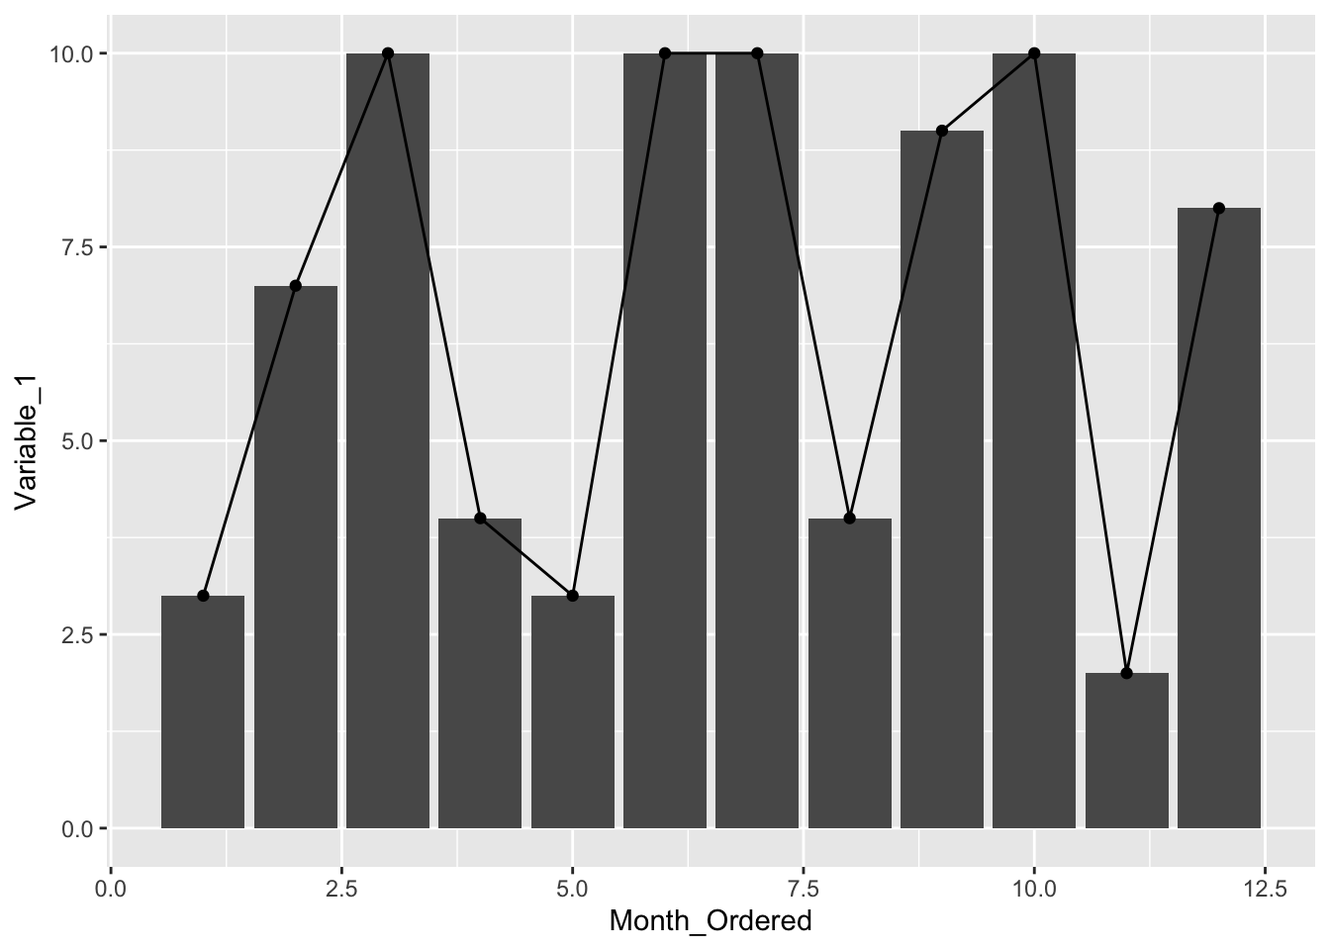
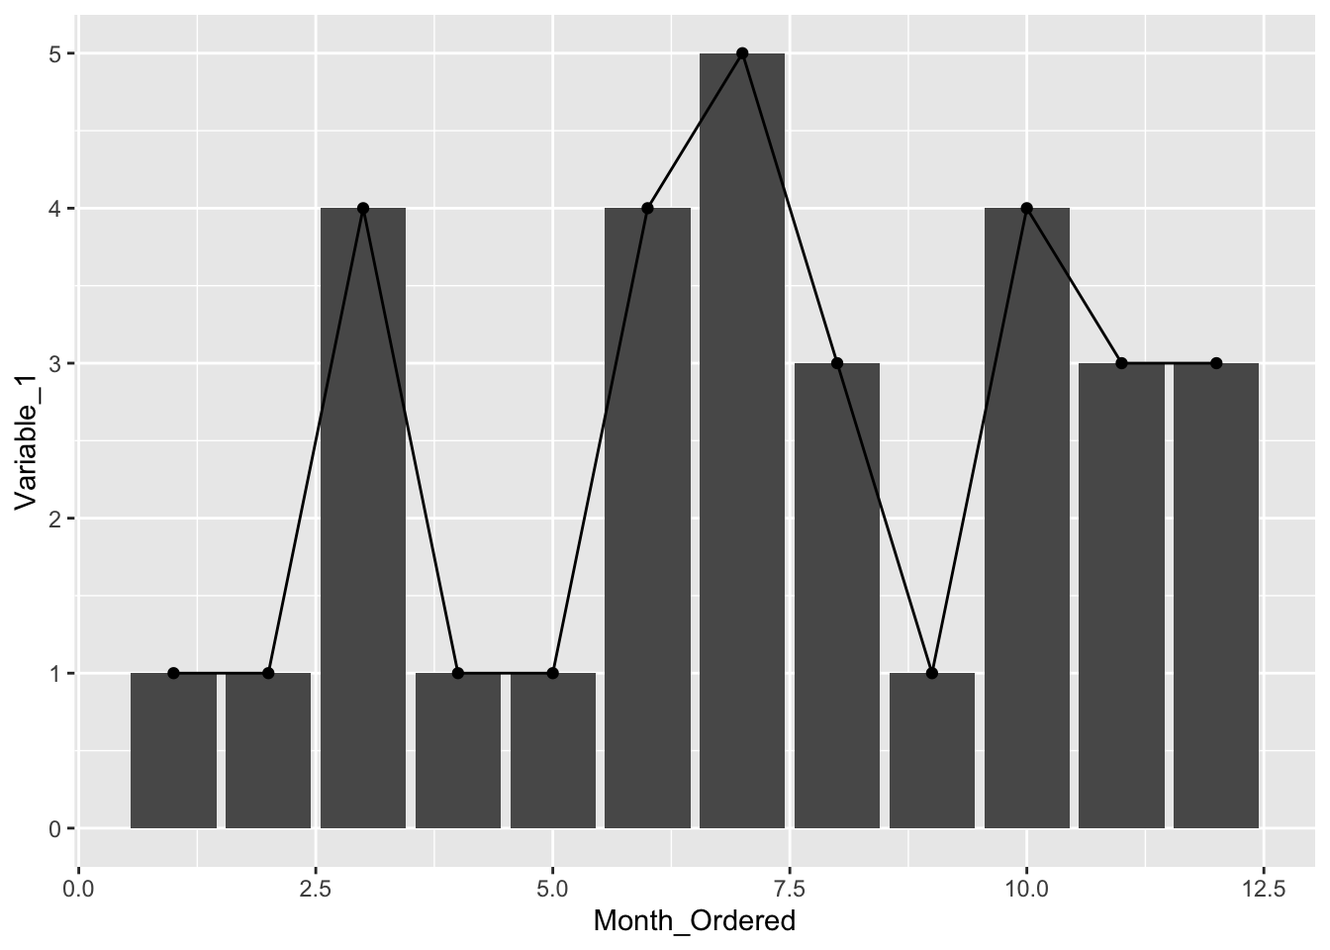
Update Analysis

diff --git a/docs/analysis.html b/docs/analysis.html
@@ -404,12 +404,14 @@ library(tidyverse)</code></pre>
               rownames = FALSE, 
               filter=&quot;top&quot;, 
               options = list(pageLength = 5, scrollX=T) )</code></pre>
-<div id="htmlwidget-411f9e79b64006c12b79" style="width:100%;height:auto;" class="datatables html-widget"></div>
-<script type="application/json" data-for="htmlwidget-411f9e79b64006c12b79">{"x":{"filter":"top","filterHTML":"<tr>\n  <td data-type=\"integer\" style=\"vertical-align: top;\">\n    <div class=\"form-group has-feedback\" style=\"margin-bottom: auto;\">\n      <input type=\"search\" placeholder=\"All\" class=\"form-control\" style=\"width: 100%;\"/>\n      <span class=\"glyphicon glyphicon-remove-circle form-control-feedback\"><\/span>\n    <\/div>\n    <div style=\"display: none; position: absolute; width: 200px;\">\n      <div data-min=\"1\" data-max=\"12\"><\/div>\n      <span style=\"float: left;\"><\/span>\n      <span style=\"float: right;\"><\/span>\n    <\/div>\n  <\/td>\n  <td data-type=\"character\" style=\"vertical-align: top;\">\n    <div class=\"form-group has-feedback\" style=\"margin-bottom: auto;\">\n      <input type=\"search\" placeholder=\"All\" class=\"form-control\" style=\"width: 100%;\"/>\n      <span class=\"glyphicon glyphicon-remove-circle form-control-feedback\"><\/span>\n    <\/div>\n  <\/td>\n  <td data-type=\"integer\" style=\"vertical-align: top;\">\n    <div class=\"form-group has-feedback\" style=\"margin-bottom: auto;\">\n      <input type=\"search\" placeholder=\"All\" class=\"form-control\" style=\"width: 100%;\"/>\n      <span class=\"glyphicon glyphicon-remove-circle form-control-feedback\"><\/span>\n    <\/div>\n    <div style=\"display: none; position: absolute; width: 200px;\">\n      <div data-min=\"1\" data-max=\"9\"><\/div>\n      <span style=\"float: left;\"><\/span>\n      <span style=\"float: right;\"><\/span>\n    <\/div>\n  <\/td>\n  <td data-type=\"integer\" style=\"vertical-align: top;\">\n    <div class=\"form-group has-feedback\" style=\"margin-bottom: auto;\">\n      <input type=\"search\" placeholder=\"All\" class=\"form-control\" style=\"width: 100%;\"/>\n      <span class=\"glyphicon glyphicon-remove-circle form-control-feedback\"><\/span>\n    <\/div>\n    <div style=\"display: none; position: absolute; width: 200px;\">\n      <div data-min=\"2\" data-max=\"10\"><\/div>\n      <span style=\"float: left;\"><\/span>\n      <span style=\"float: right;\"><\/span>\n    <\/div>\n  <\/td>\n  <td data-type=\"integer\" style=\"vertical-align: top;\">\n    <div class=\"form-group has-feedback\" style=\"margin-bottom: auto;\">\n      <input type=\"search\" placeholder=\"All\" class=\"form-control\" style=\"width: 100%;\"/>\n      <span class=\"glyphicon glyphicon-remove-circle form-control-feedback\"><\/span>\n    <\/div>\n    <div style=\"display: none; position: absolute; width: 200px;\">\n      <div data-min=\"1\" data-max=\"10\"><\/div>\n      <span style=\"float: left;\"><\/span>\n      <span style=\"float: right;\"><\/span>\n    <\/div>\n  <\/td>\n  <td data-type=\"integer\" style=\"vertical-align: top;\">\n    <div class=\"form-group has-feedback\" style=\"margin-bottom: auto;\">\n      <input type=\"search\" placeholder=\"All\" class=\"form-control\" style=\"width: 100%;\"/>\n      <span class=\"glyphicon glyphicon-remove-circle form-control-feedback\"><\/span>\n    <\/div>\n    <div style=\"display: none; position: absolute; width: 200px;\">\n      <div data-min=\"1\" data-max=\"8\"><\/div>\n      <span style=\"float: left;\"><\/span>\n      <span style=\"float: right;\"><\/span>\n    <\/div>\n  <\/td>\n<\/tr>","data":[[1,2,3,4,5,6,7,8,9,10,11,12],["20-Jan","20-Feb","20-Mar","20-Apr","20-May","20-Jun","20-Jul","20-Aug","20-Sep","20-Oct","20-Nov","20-Dec"],[1,8,9,5,4,4,6,5,7,8,7,9],[3,7,10,4,3,10,10,4,9,10,2,8],[8,10,4,9,10,6,1,10,9,7,8,2],[6,8,5,1,7,1,4,2,6,2,3,6]],"container":"<table class=\"display\">\n  <thead>\n    <tr>\n      <th>Month_Ordered<\/th>\n      <th>Month_Label<\/th>\n      <th>Group<\/th>\n      <th>Variable_1<\/th>\n      <th>Variable_2<\/th>\n      <th>Variable_3<\/th>\n    <\/tr>\n  <\/thead>\n<\/table>","options":{"pageLength":5,"scrollX":true,"columnDefs":[{"className":"dt-right","targets":[0,2,3,4,5]}],"order":[],"autoWidth":false,"orderClasses":false,"orderCellsTop":true,"lengthMenu":[5,10,25,50,100]}},"evals":[],"jsHooks":[]}</script>
+<div id="htmlwidget-044ba495efd19efd77b1" style="width:100%;height:auto;" class="datatables html-widget"></div>
+<script type="application/json" data-for="htmlwidget-044ba495efd19efd77b1">{"x":{"filter":"top","filterHTML":"<tr>\n  <td data-type=\"integer\" style=\"vertical-align: top;\">\n    <div class=\"form-group has-feedback\" style=\"margin-bottom: auto;\">\n      <input type=\"search\" placeholder=\"All\" class=\"form-control\" style=\"width: 100%;\"/>\n      <span class=\"glyphicon glyphicon-remove-circle form-control-feedback\"><\/span>\n    <\/div>\n    <div style=\"display: none; position: absolute; width: 200px;\">\n      <div data-min=\"1\" data-max=\"12\"><\/div>\n      <span style=\"float: left;\"><\/span>\n      <span style=\"float: right;\"><\/span>\n    <\/div>\n  <\/td>\n  <td data-type=\"character\" style=\"vertical-align: top;\">\n    <div class=\"form-group has-feedback\" style=\"margin-bottom: auto;\">\n      <input type=\"search\" placeholder=\"All\" class=\"form-control\" style=\"width: 100%;\"/>\n      <span class=\"glyphicon glyphicon-remove-circle form-control-feedback\"><\/span>\n    <\/div>\n  <\/td>\n  <td data-type=\"integer\" style=\"vertical-align: top;\">\n    <div class=\"form-group has-feedback\" style=\"margin-bottom: auto;\">\n      <input type=\"search\" placeholder=\"All\" class=\"form-control\" style=\"width: 100%;\"/>\n      <span class=\"glyphicon glyphicon-remove-circle form-control-feedback\"><\/span>\n    <\/div>\n    <div style=\"display: none; position: absolute; width: 200px;\">\n      <div data-min=\"1\" data-max=\"2\"><\/div>\n      <span style=\"float: left;\"><\/span>\n      <span style=\"float: right;\"><\/span>\n    <\/div>\n  <\/td>\n  <td data-type=\"integer\" style=\"vertical-align: top;\">\n    <div class=\"form-group has-feedback\" style=\"margin-bottom: auto;\">\n      <input type=\"search\" placeholder=\"All\" class=\"form-control\" style=\"width: 100%;\"/>\n      <span class=\"glyphicon glyphicon-remove-circle form-control-feedback\"><\/span>\n    <\/div>\n    <div style=\"display: none; position: absolute; width: 200px;\">\n      <div data-min=\"1\" data-max=\"9\"><\/div>\n      <span style=\"float: left;\"><\/span>\n      <span style=\"float: right;\"><\/span>\n    <\/div>\n  <\/td>\n  <td data-type=\"integer\" style=\"vertical-align: top;\">\n    <div class=\"form-group has-feedback\" style=\"margin-bottom: auto;\">\n      <input type=\"search\" placeholder=\"All\" class=\"form-control\" style=\"width: 100%;\"/>\n      <span class=\"glyphicon glyphicon-remove-circle form-control-feedback\"><\/span>\n    <\/div>\n    <div style=\"display: none; position: absolute; width: 200px;\">\n      <div data-min=\"1\" data-max=\"10\"><\/div>\n      <span style=\"float: left;\"><\/span>\n      <span style=\"float: right;\"><\/span>\n    <\/div>\n  <\/td>\n  <td data-type=\"integer\" style=\"vertical-align: top;\">\n    <div class=\"form-group has-feedback\" style=\"margin-bottom: auto;\">\n      <input type=\"search\" placeholder=\"All\" class=\"form-control\" style=\"width: 100%;\"/>\n      <span class=\"glyphicon glyphicon-remove-circle form-control-feedback\"><\/span>\n    <\/div>\n    <div style=\"display: none; position: absolute; width: 200px;\">\n      <div data-min=\"2\" data-max=\"10\"><\/div>\n      <span style=\"float: left;\"><\/span>\n      <span style=\"float: right;\"><\/span>\n    <\/div>\n  <\/td>\n<\/tr>","data":[[1,2,3,4,5,6,7,8,9,10,11,12,1,2,3,4,5,6,7,8,9,10,11,12],["January 20, 2020","February 20, 2020","March 20, 2020","April 20, 2020","May 20, 2020","June 20, 2020","July 20, 2020","August 20, 2020","September 20, 2020","October 20, 2020","November 20, 2020","December 20, 2020","January 20, 2020","February 20, 2020","March 20, 2020","April 20, 2020","May 20, 2020","June 20, 2020","July 20, 2020","August 20, 2020","September 20, 2020","October 20, 2020","November 20, 2020","December 20, 2020"],[1,1,1,1,1,1,1,1,1,1,1,1,2,2,2,2,2,2,2,2,2,2,2,2],[1,1,4,1,1,4,5,3,1,4,3,3,7,9,7,6,9,9,8,7,9,6,8,9],[1,3,1,1,5,4,5,2,5,2,1,1,10,9,5,9,7,5,5,8,6,10,10,10],[3,5,4,2,5,4,5,4,4,3,4,2,9,10,9,5,8,5,7,9,6,6,5,7]],"container":"<table class=\"display\">\n  <thead>\n    <tr>\n      <th>Month_Ordered<\/th>\n      <th>Month_Label<\/th>\n      <th>Group<\/th>\n      <th>Variable_1<\/th>\n      <th>Variable_2<\/th>\n      <th>Variable_3<\/th>\n    <\/tr>\n  <\/thead>\n<\/table>","options":{"pageLength":5,"scrollX":true,"columnDefs":[{"className":"dt-right","targets":[0,2,3,4,5]}],"order":[],"autoWidth":false,"orderClasses":false,"orderCellsTop":true,"lengthMenu":[5,10,25,50,100]}},"evals":[],"jsHooks":[]}</script>
 </div>
-<div id="example-plot" class="section level3">
-<h3>Example Plot</h3>
-<pre class="r"><code>plot1 &lt;- ggplot2::ggplot(dataset, aes(x = Month_Ordered, y = Variable_1)) +
+<div id="example-plot-1" class="section level3">
+<h3>Example Plot #1</h3>
+<pre class="r"><code>plot1 &lt;- dataset %&gt;%
+  dplyr::filter(Group==1) %&gt;%
+  ggplot2::ggplot(., aes(x = Month_Ordered, y = Variable_1)) +
   geom_bar(stat=&quot;identity&quot;) +
   geom_line() +
   geom_point()
@@ -417,11 +419,29 @@ library(tidyverse)</code></pre>
 plot1</code></pre>
 <p><img src="analysis_files/figure-html/unnamed-chunk-4-1.png" width="672" /></p>
 </div>
-<div id="example-dynamic-plot" class="section level3">
-<h3>Example Dynamic Plot</h3>
+<div id="example-dynamic-plot-1" class="section level3">
+<h3>Example Dynamic Plot #1</h3>
 <pre class="r"><code>plotly::ggplotly(plot1)</code></pre>
-<div id="htmlwidget-4f8cd6e58ca51cef8f8d" style="width:672px;height:480px;" class="plotly html-widget"></div>
-<script type="application/json" data-for="htmlwidget-4f8cd6e58ca51cef8f8d">{"x":{"data":[{"orientation":"v","width":[0.9,0.9,0.9,0.9,0.9,0.9,0.9,0.899999999999999,0.899999999999999,0.899999999999999,0.899999999999999,0.899999999999999],"base":[0,0,0,0,0,0,0,0,0,0,0,0],"x":[1,2,3,4,5,6,7,8,9,10,11,12],"y":[3,7,10,4,3,10,10,4,9,10,2,8],"text":["Month_Ordered:  1<br />Variable_1:  3","Month_Ordered:  2<br />Variable_1:  7","Month_Ordered:  3<br />Variable_1: 10","Month_Ordered:  4<br />Variable_1:  4","Month_Ordered:  5<br />Variable_1:  3","Month_Ordered:  6<br />Variable_1: 10","Month_Ordered:  7<br />Variable_1: 10","Month_Ordered:  8<br />Variable_1:  4","Month_Ordered:  9<br />Variable_1:  9","Month_Ordered: 10<br />Variable_1: 10","Month_Ordered: 11<br />Variable_1:  2","Month_Ordered: 12<br />Variable_1:  8"],"type":"bar","marker":{"autocolorscale":false,"color":"rgba(89,89,89,1)","line":{"width":1.88976377952756,"color":"transparent"}},"showlegend":false,"xaxis":"x","yaxis":"y","hoverinfo":"text","mode":"","frame":null},{"x":[1,2,3,4,5,6,7,8,9,10,11,12],"y":[3,7,10,4,3,10,10,4,9,10,2,8],"text":["Month_Ordered:  1<br />Variable_1:  3","Month_Ordered:  2<br />Variable_1:  7","Month_Ordered:  3<br />Variable_1: 10","Month_Ordered:  4<br />Variable_1:  4","Month_Ordered:  5<br />Variable_1:  3","Month_Ordered:  6<br />Variable_1: 10","Month_Ordered:  7<br />Variable_1: 10","Month_Ordered:  8<br />Variable_1:  4","Month_Ordered:  9<br />Variable_1:  9","Month_Ordered: 10<br />Variable_1: 10","Month_Ordered: 11<br />Variable_1:  2","Month_Ordered: 12<br />Variable_1:  8"],"type":"scatter","mode":"lines+markers","line":{"width":1.88976377952756,"color":"rgba(0,0,0,1)","dash":"solid"},"hoveron":"points","showlegend":false,"xaxis":"x","yaxis":"y","hoverinfo":"text","marker":{"autocolorscale":false,"color":"rgba(0,0,0,1)","opacity":1,"size":5.66929133858268,"symbol":"circle","line":{"width":1.88976377952756,"color":"rgba(0,0,0,1)"}},"frame":null}],"layout":{"margin":{"t":26.2283105022831,"r":7.30593607305936,"b":40.1826484018265,"l":48.9497716894977},"plot_bgcolor":"rgba(235,235,235,1)","paper_bgcolor":"rgba(255,255,255,1)","font":{"color":"rgba(0,0,0,1)","family":"","size":14.6118721461187},"xaxis":{"domain":[0,1],"automargin":true,"type":"linear","autorange":false,"range":[-0.0449999999999999,13.045],"tickmode":"array","ticktext":["0.0","2.5","5.0","7.5","10.0","12.5"],"tickvals":[0,2.5,5,7.5,10,12.5],"categoryorder":"array","categoryarray":["0.0","2.5","5.0","7.5","10.0","12.5"],"nticks":null,"ticks":"outside","tickcolor":"rgba(51,51,51,1)","ticklen":3.65296803652968,"tickwidth":0.66417600664176,"showticklabels":true,"tickfont":{"color":"rgba(77,77,77,1)","family":"","size":11.689497716895},"tickangle":-0,"showline":false,"linecolor":null,"linewidth":0,"showgrid":true,"gridcolor":"rgba(255,255,255,1)","gridwidth":0.66417600664176,"zeroline":false,"anchor":"y","title":{"text":"Month_Ordered","font":{"color":"rgba(0,0,0,1)","family":"","size":14.6118721461187}},"hoverformat":".2f"},"yaxis":{"domain":[0,1],"automargin":true,"type":"linear","autorange":false,"range":[-0.5,10.5],"tickmode":"array","ticktext":["0.0","2.5","5.0","7.5","10.0"],"tickvals":[0,2.5,5,7.5,10],"categoryorder":"array","categoryarray":["0.0","2.5","5.0","7.5","10.0"],"nticks":null,"ticks":"outside","tickcolor":"rgba(51,51,51,1)","ticklen":3.65296803652968,"tickwidth":0.66417600664176,"showticklabels":true,"tickfont":{"color":"rgba(77,77,77,1)","family":"","size":11.689497716895},"tickangle":-0,"showline":false,"linecolor":null,"linewidth":0,"showgrid":true,"gridcolor":"rgba(255,255,255,1)","gridwidth":0.66417600664176,"zeroline":false,"anchor":"x","title":{"text":"Variable_1","font":{"color":"rgba(0,0,0,1)","family":"","size":14.6118721461187}},"hoverformat":".2f"},"shapes":[{"type":"rect","fillcolor":null,"line":{"color":null,"width":0,"linetype":[]},"yref":"paper","xref":"paper","x0":0,"x1":1,"y0":0,"y1":1}],"showlegend":false,"legend":{"bgcolor":"rgba(255,255,255,1)","bordercolor":"transparent","borderwidth":1.88976377952756,"font":{"color":"rgba(0,0,0,1)","family":"","size":11.689497716895}},"hovermode":"closest","barmode":"relative"},"config":{"doubleClick":"reset","showSendToCloud":false},"source":"A","attrs":{"98524387fce0":{"x":{},"y":{},"type":"bar"},"985214eaf8c3":{"x":{},"y":{}},"98524e71d4ef":{"x":{},"y":{}}},"cur_data":"98524387fce0","visdat":{"98524387fce0":["function (y) ","x"],"985214eaf8c3":["function (y) ","x"],"98524e71d4ef":["function (y) ","x"]},"highlight":{"on":"plotly_click","persistent":false,"dynamic":false,"selectize":false,"opacityDim":0.2,"selected":{"opacity":1},"debounce":0},"shinyEvents":["plotly_hover","plotly_click","plotly_selected","plotly_relayout","plotly_brushed","plotly_brushing","plotly_clickannotation","plotly_doubleclick","plotly_deselect","plotly_afterplot","plotly_sunburstclick"],"base_url":"https://plot.ly"},"evals":[],"jsHooks":[]}</script>
+<div id="htmlwidget-557ebedffb7cc27a73cc" style="width:672px;height:480px;" class="plotly html-widget"></div>
+<script type="application/json" data-for="htmlwidget-557ebedffb7cc27a73cc">{"x":{"data":[{"orientation":"v","width":[0.9,0.9,0.9,0.9,0.9,0.9,0.9,0.899999999999999,0.899999999999999,0.899999999999999,0.899999999999999,0.899999999999999],"base":[0,0,0,0,0,0,0,0,0,0,0,0],"x":[1,2,3,4,5,6,7,8,9,10,11,12],"y":[1,1,4,1,1,4,5,3,1,4,3,3],"text":["Month_Ordered:  1<br />Variable_1: 1","Month_Ordered:  2<br />Variable_1: 1","Month_Ordered:  3<br />Variable_1: 4","Month_Ordered:  4<br />Variable_1: 1","Month_Ordered:  5<br />Variable_1: 1","Month_Ordered:  6<br />Variable_1: 4","Month_Ordered:  7<br />Variable_1: 5","Month_Ordered:  8<br />Variable_1: 3","Month_Ordered:  9<br />Variable_1: 1","Month_Ordered: 10<br />Variable_1: 4","Month_Ordered: 11<br />Variable_1: 3","Month_Ordered: 12<br />Variable_1: 3"],"type":"bar","marker":{"autocolorscale":false,"color":"rgba(89,89,89,1)","line":{"width":1.88976377952756,"color":"transparent"}},"showlegend":false,"xaxis":"x","yaxis":"y","hoverinfo":"text","mode":"","frame":null},{"x":[1,2,3,4,5,6,7,8,9,10,11,12],"y":[1,1,4,1,1,4,5,3,1,4,3,3],"text":["Month_Ordered:  1<br />Variable_1: 1","Month_Ordered:  2<br />Variable_1: 1","Month_Ordered:  3<br />Variable_1: 4","Month_Ordered:  4<br />Variable_1: 1","Month_Ordered:  5<br />Variable_1: 1","Month_Ordered:  6<br />Variable_1: 4","Month_Ordered:  7<br />Variable_1: 5","Month_Ordered:  8<br />Variable_1: 3","Month_Ordered:  9<br />Variable_1: 1","Month_Ordered: 10<br />Variable_1: 4","Month_Ordered: 11<br />Variable_1: 3","Month_Ordered: 12<br />Variable_1: 3"],"type":"scatter","mode":"lines+markers","line":{"width":1.88976377952756,"color":"rgba(0,0,0,1)","dash":"solid"},"hoveron":"points","showlegend":false,"xaxis":"x","yaxis":"y","hoverinfo":"text","marker":{"autocolorscale":false,"color":"rgba(0,0,0,1)","opacity":1,"size":5.66929133858268,"symbol":"circle","line":{"width":1.88976377952756,"color":"rgba(0,0,0,1)"}},"frame":null}],"layout":{"margin":{"t":26.2283105022831,"r":7.30593607305936,"b":40.1826484018265,"l":31.4155251141553},"plot_bgcolor":"rgba(235,235,235,1)","paper_bgcolor":"rgba(255,255,255,1)","font":{"color":"rgba(0,0,0,1)","family":"","size":14.6118721461187},"xaxis":{"domain":[0,1],"automargin":true,"type":"linear","autorange":false,"range":[-0.0449999999999999,13.045],"tickmode":"array","ticktext":["0.0","2.5","5.0","7.5","10.0","12.5"],"tickvals":[0,2.5,5,7.5,10,12.5],"categoryorder":"array","categoryarray":["0.0","2.5","5.0","7.5","10.0","12.5"],"nticks":null,"ticks":"outside","tickcolor":"rgba(51,51,51,1)","ticklen":3.65296803652968,"tickwidth":0.66417600664176,"showticklabels":true,"tickfont":{"color":"rgba(77,77,77,1)","family":"","size":11.689497716895},"tickangle":-0,"showline":false,"linecolor":null,"linewidth":0,"showgrid":true,"gridcolor":"rgba(255,255,255,1)","gridwidth":0.66417600664176,"zeroline":false,"anchor":"y","title":{"text":"Month_Ordered","font":{"color":"rgba(0,0,0,1)","family":"","size":14.6118721461187}},"hoverformat":".2f"},"yaxis":{"domain":[0,1],"automargin":true,"type":"linear","autorange":false,"range":[-0.25,5.25],"tickmode":"array","ticktext":["0","1","2","3","4","5"],"tickvals":[0,1,2,3,4,5],"categoryorder":"array","categoryarray":["0","1","2","3","4","5"],"nticks":null,"ticks":"outside","tickcolor":"rgba(51,51,51,1)","ticklen":3.65296803652968,"tickwidth":0.66417600664176,"showticklabels":true,"tickfont":{"color":"rgba(77,77,77,1)","family":"","size":11.689497716895},"tickangle":-0,"showline":false,"linecolor":null,"linewidth":0,"showgrid":true,"gridcolor":"rgba(255,255,255,1)","gridwidth":0.66417600664176,"zeroline":false,"anchor":"x","title":{"text":"Variable_1","font":{"color":"rgba(0,0,0,1)","family":"","size":14.6118721461187}},"hoverformat":".2f"},"shapes":[{"type":"rect","fillcolor":null,"line":{"color":null,"width":0,"linetype":[]},"yref":"paper","xref":"paper","x0":0,"x1":1,"y0":0,"y1":1}],"showlegend":false,"legend":{"bgcolor":"rgba(255,255,255,1)","bordercolor":"transparent","borderwidth":1.88976377952756,"font":{"color":"rgba(0,0,0,1)","family":"","size":11.689497716895}},"hovermode":"closest","barmode":"relative"},"config":{"doubleClick":"reset","showSendToCloud":false},"source":"A","attrs":{"a7ee7c72306":{"x":{},"y":{},"type":"bar"},"a7ee22cc62e7":{"x":{},"y":{}},"a7ee18713d8a":{"x":{},"y":{}}},"cur_data":"a7ee7c72306","visdat":{"a7ee7c72306":["function (y) ","x"],"a7ee22cc62e7":["function (y) ","x"],"a7ee18713d8a":["function (y) ","x"]},"highlight":{"on":"plotly_click","persistent":false,"dynamic":false,"selectize":false,"opacityDim":0.2,"selected":{"opacity":1},"debounce":0},"shinyEvents":["plotly_hover","plotly_click","plotly_selected","plotly_relayout","plotly_brushed","plotly_brushing","plotly_clickannotation","plotly_doubleclick","plotly_deselect","plotly_afterplot","plotly_sunburstclick"],"base_url":"https://plot.ly"},"evals":[],"jsHooks":[]}</script>
+</div>
+<div id="example-plot-2" class="section level3">
+<h3>Example Plot #2</h3>
+<pre class="r"><code>dataset$Group&lt;-as.factor(dataset$Group)
+
+plot2&lt;-dataset %&gt;%
+  ggplot(aes(x=Month_Ordered, y=Variable_2, group=Group, color=Group)) +
+  geom_line() +
+  geom_point()
+
+plot2</code></pre>
+<p><img src="analysis_files/figure-html/unnamed-chunk-6-1.png" width="672" /></p>
+</div>
+<div id="example-dynamic-plot-2" class="section level3">
+<h3>Example Dynamic Plot #2</h3>
+<pre class="r"><code>plotly::ggplotly(plot2)</code></pre>
+<div id="htmlwidget-6e50f2511d74942f65f5" style="width:672px;height:480px;" class="plotly html-widget"></div>
+<script type="application/json" data-for="htmlwidget-6e50f2511d74942f65f5">{"x":{"data":[{"x":[1,2,3,4,5,6,7,8,9,10,11,12],"y":[1,3,1,1,5,4,5,2,5,2,1,1],"text":["Month_Ordered:  1<br />Variable_2:  1<br />Group: 1<br />Group: 1","Month_Ordered:  2<br />Variable_2:  3<br />Group: 1<br />Group: 1","Month_Ordered:  3<br />Variable_2:  1<br />Group: 1<br />Group: 1","Month_Ordered:  4<br />Variable_2:  1<br />Group: 1<br />Group: 1","Month_Ordered:  5<br />Variable_2:  5<br />Group: 1<br />Group: 1","Month_Ordered:  6<br />Variable_2:  4<br />Group: 1<br />Group: 1","Month_Ordered:  7<br />Variable_2:  5<br />Group: 1<br />Group: 1","Month_Ordered:  8<br />Variable_2:  2<br />Group: 1<br />Group: 1","Month_Ordered:  9<br />Variable_2:  5<br />Group: 1<br />Group: 1","Month_Ordered: 10<br />Variable_2:  2<br />Group: 1<br />Group: 1","Month_Ordered: 11<br />Variable_2:  1<br />Group: 1<br />Group: 1","Month_Ordered: 12<br />Variable_2:  1<br />Group: 1<br />Group: 1"],"type":"scatter","mode":"lines+markers","line":{"width":1.88976377952756,"color":"rgba(248,118,109,1)","dash":"solid"},"hoveron":"points","name":"1","legendgroup":"1","showlegend":true,"xaxis":"x","yaxis":"y","hoverinfo":"text","marker":{"autocolorscale":false,"color":"rgba(248,118,109,1)","opacity":1,"size":5.66929133858268,"symbol":"circle","line":{"width":1.88976377952756,"color":"rgba(248,118,109,1)"}},"frame":null},{"x":[1,2,3,4,5,6,7,8,9,10,11,12],"y":[10,9,5,9,7,5,5,8,6,10,10,10],"text":["Month_Ordered:  1<br />Variable_2: 10<br />Group: 2<br />Group: 2","Month_Ordered:  2<br />Variable_2:  9<br />Group: 2<br />Group: 2","Month_Ordered:  3<br />Variable_2:  5<br />Group: 2<br />Group: 2","Month_Ordered:  4<br />Variable_2:  9<br />Group: 2<br />Group: 2","Month_Ordered:  5<br />Variable_2:  7<br />Group: 2<br />Group: 2","Month_Ordered:  6<br />Variable_2:  5<br />Group: 2<br />Group: 2","Month_Ordered:  7<br />Variable_2:  5<br />Group: 2<br />Group: 2","Month_Ordered:  8<br />Variable_2:  8<br />Group: 2<br />Group: 2","Month_Ordered:  9<br />Variable_2:  6<br />Group: 2<br />Group: 2","Month_Ordered: 10<br />Variable_2: 10<br />Group: 2<br />Group: 2","Month_Ordered: 11<br />Variable_2: 10<br />Group: 2<br />Group: 2","Month_Ordered: 12<br />Variable_2: 10<br />Group: 2<br />Group: 2"],"type":"scatter","mode":"lines+markers","line":{"width":1.88976377952756,"color":"rgba(0,191,196,1)","dash":"solid"},"hoveron":"points","name":"2","legendgroup":"2","showlegend":true,"xaxis":"x","yaxis":"y","hoverinfo":"text","marker":{"autocolorscale":false,"color":"rgba(0,191,196,1)","opacity":1,"size":5.66929133858268,"symbol":"circle","line":{"width":1.88976377952756,"color":"rgba(0,191,196,1)"}},"frame":null}],"layout":{"margin":{"t":26.2283105022831,"r":7.30593607305936,"b":40.1826484018265,"l":48.9497716894977},"plot_bgcolor":"rgba(235,235,235,1)","paper_bgcolor":"rgba(255,255,255,1)","font":{"color":"rgba(0,0,0,1)","family":"","size":14.6118721461187},"xaxis":{"domain":[0,1],"automargin":true,"type":"linear","autorange":false,"range":[0.45,12.55],"tickmode":"array","ticktext":["2.5","5.0","7.5","10.0","12.5"],"tickvals":[2.5,5,7.5,10,12.5],"categoryorder":"array","categoryarray":["2.5","5.0","7.5","10.0","12.5"],"nticks":null,"ticks":"outside","tickcolor":"rgba(51,51,51,1)","ticklen":3.65296803652968,"tickwidth":0.66417600664176,"showticklabels":true,"tickfont":{"color":"rgba(77,77,77,1)","family":"","size":11.689497716895},"tickangle":-0,"showline":false,"linecolor":null,"linewidth":0,"showgrid":true,"gridcolor":"rgba(255,255,255,1)","gridwidth":0.66417600664176,"zeroline":false,"anchor":"y","title":{"text":"Month_Ordered","font":{"color":"rgba(0,0,0,1)","family":"","size":14.6118721461187}},"hoverformat":".2f"},"yaxis":{"domain":[0,1],"automargin":true,"type":"linear","autorange":false,"range":[0.55,10.45],"tickmode":"array","ticktext":["2.5","5.0","7.5","10.0"],"tickvals":[2.5,5,7.5,10],"categoryorder":"array","categoryarray":["2.5","5.0","7.5","10.0"],"nticks":null,"ticks":"outside","tickcolor":"rgba(51,51,51,1)","ticklen":3.65296803652968,"tickwidth":0.66417600664176,"showticklabels":true,"tickfont":{"color":"rgba(77,77,77,1)","family":"","size":11.689497716895},"tickangle":-0,"showline":false,"linecolor":null,"linewidth":0,"showgrid":true,"gridcolor":"rgba(255,255,255,1)","gridwidth":0.66417600664176,"zeroline":false,"anchor":"x","title":{"text":"Variable_2","font":{"color":"rgba(0,0,0,1)","family":"","size":14.6118721461187}},"hoverformat":".2f"},"shapes":[{"type":"rect","fillcolor":null,"line":{"color":null,"width":0,"linetype":[]},"yref":"paper","xref":"paper","x0":0,"x1":1,"y0":0,"y1":1}],"showlegend":true,"legend":{"bgcolor":"rgba(255,255,255,1)","bordercolor":"transparent","borderwidth":1.88976377952756,"font":{"color":"rgba(0,0,0,1)","family":"","size":11.689497716895},"y":0.913385826771654},"annotations":[{"text":"Group","x":1.02,"y":1,"showarrow":false,"ax":0,"ay":0,"font":{"color":"rgba(0,0,0,1)","family":"","size":14.6118721461187},"xref":"paper","yref":"paper","textangle":-0,"xanchor":"left","yanchor":"bottom","legendTitle":true}],"hovermode":"closest","barmode":"relative"},"config":{"doubleClick":"reset","showSendToCloud":false},"source":"A","attrs":{"a7ee1575ac5c":{"x":{},"y":{},"colour":{},"type":"scatter"},"a7ee6086d705":{"x":{},"y":{},"colour":{}}},"cur_data":"a7ee1575ac5c","visdat":{"a7ee1575ac5c":["function (y) ","x"],"a7ee6086d705":["function (y) ","x"]},"highlight":{"on":"plotly_click","persistent":false,"dynamic":false,"selectize":false,"opacityDim":0.2,"selected":{"opacity":1},"debounce":0},"shinyEvents":["plotly_hover","plotly_click","plotly_selected","plotly_relayout","plotly_brushed","plotly_brushing","plotly_clickannotation","plotly_doubleclick","plotly_deselect","plotly_afterplot","plotly_sunburstclick"],"base_url":"https://plot.ly"},"evals":[],"jsHooks":[]}</script>
 </div>
 </div>
 </div>
